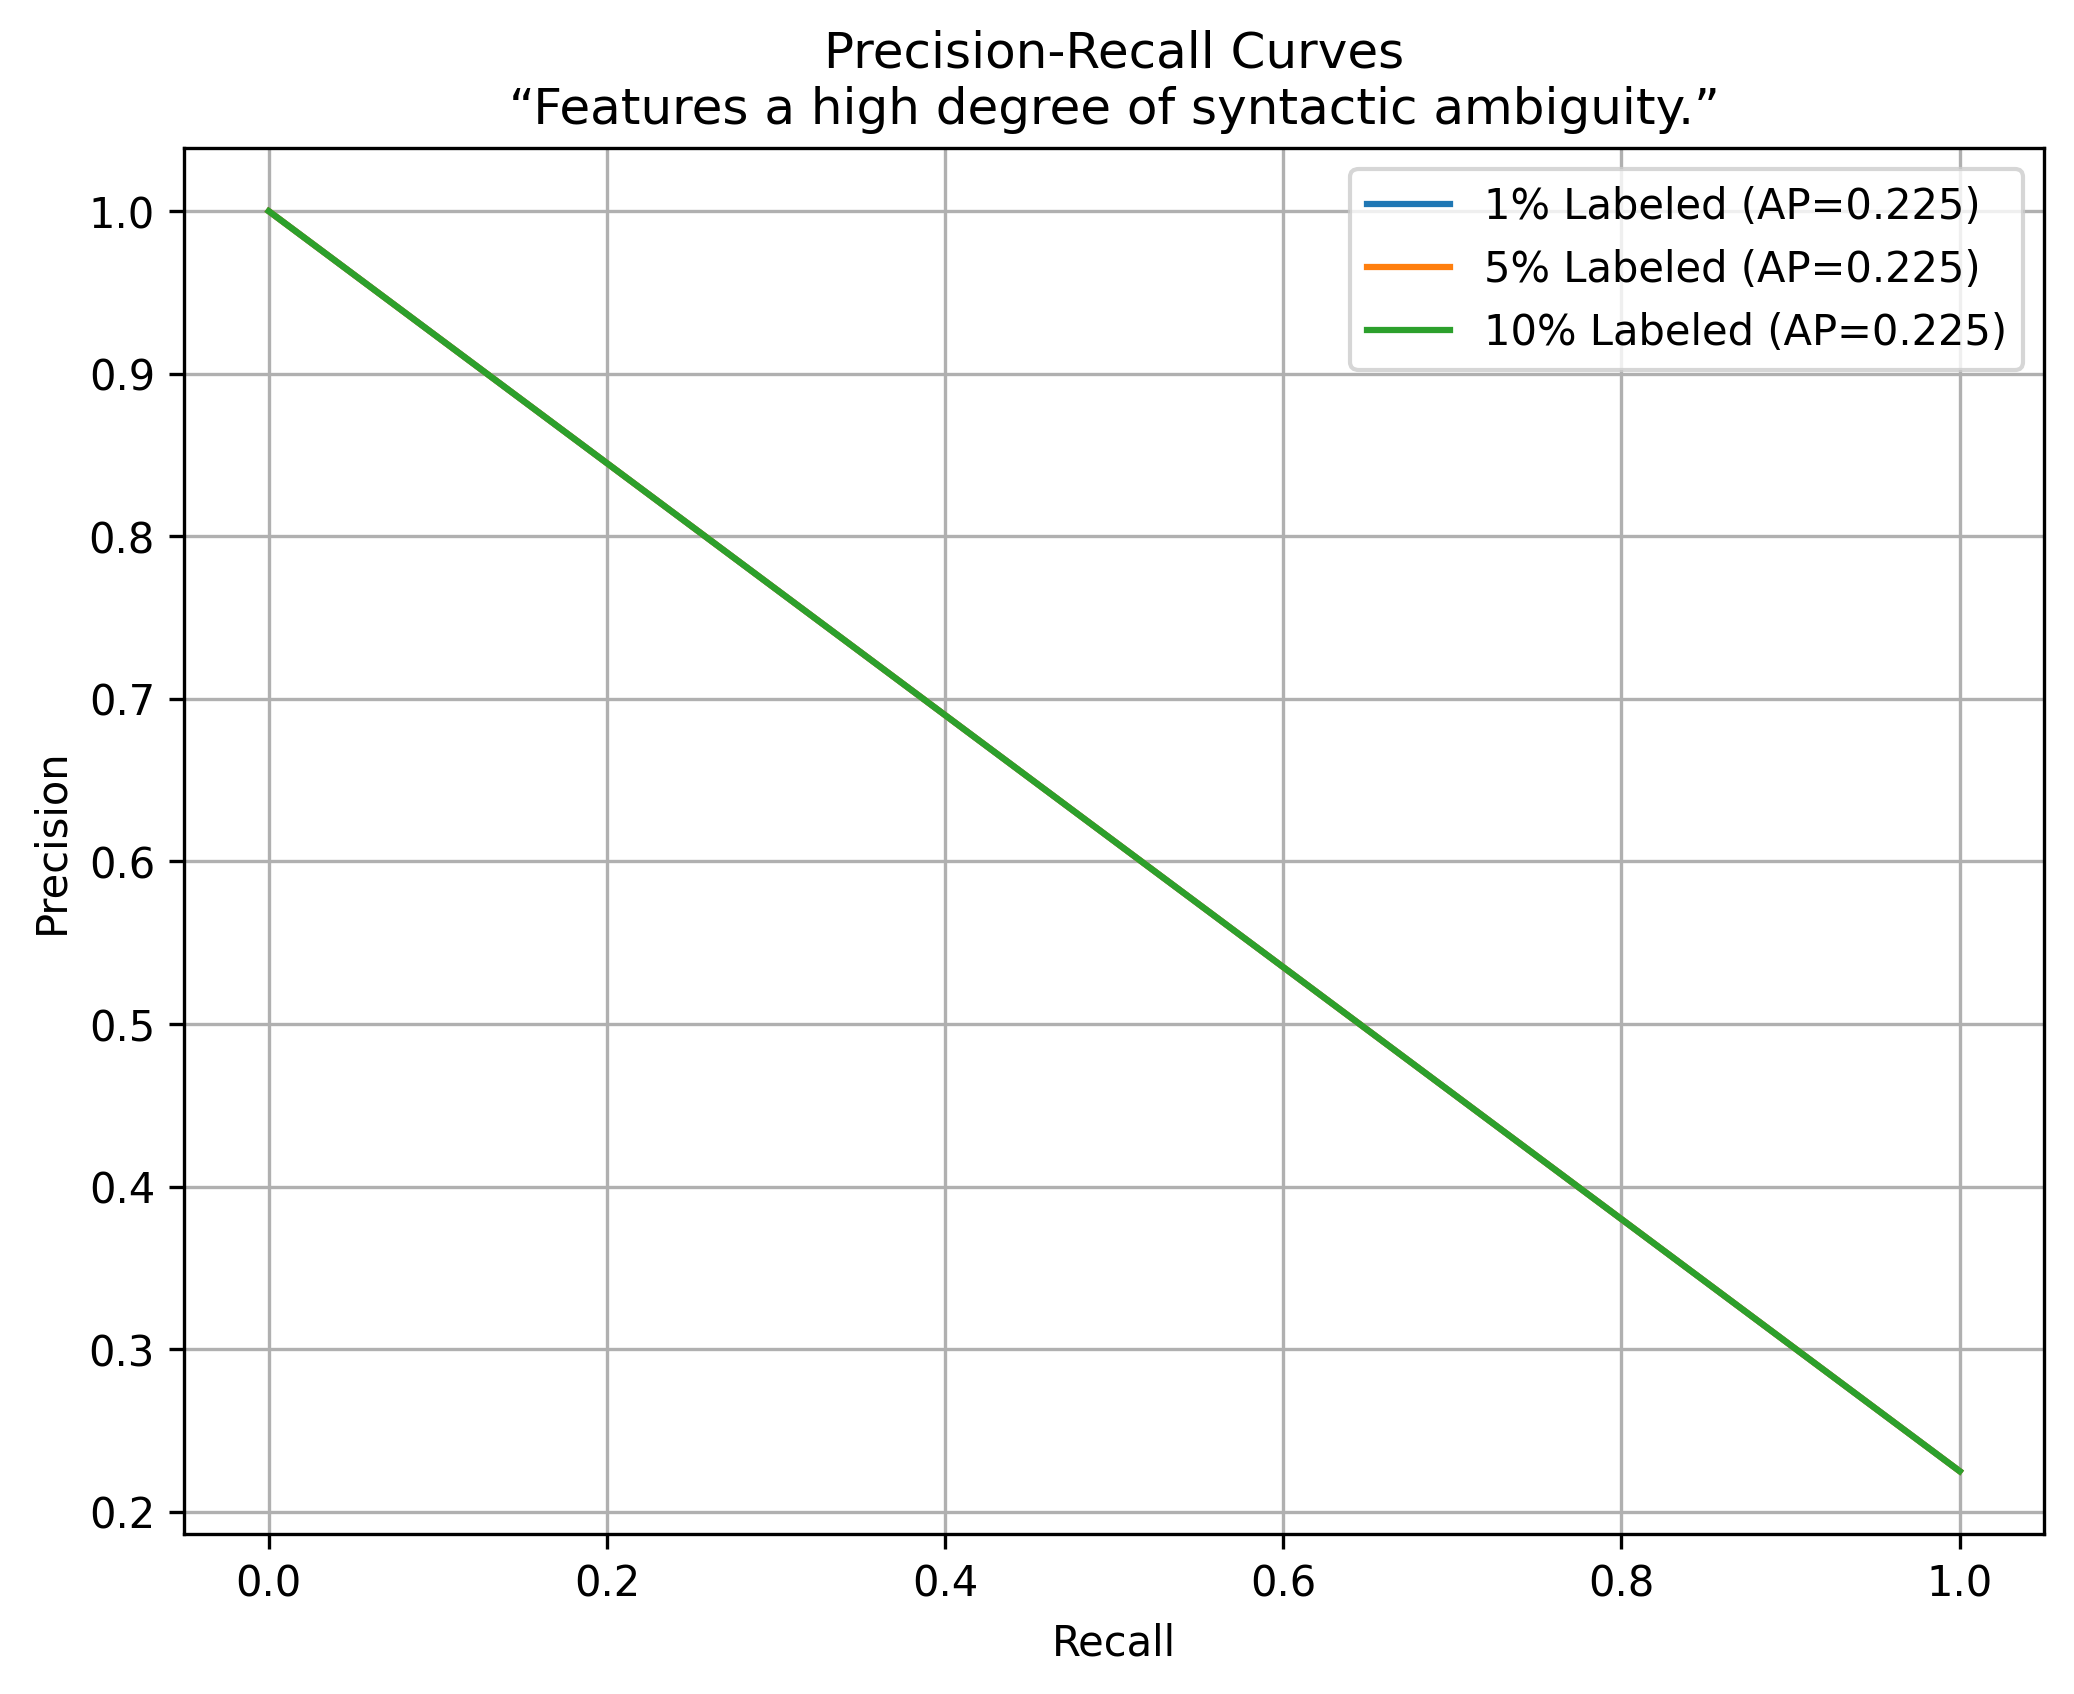
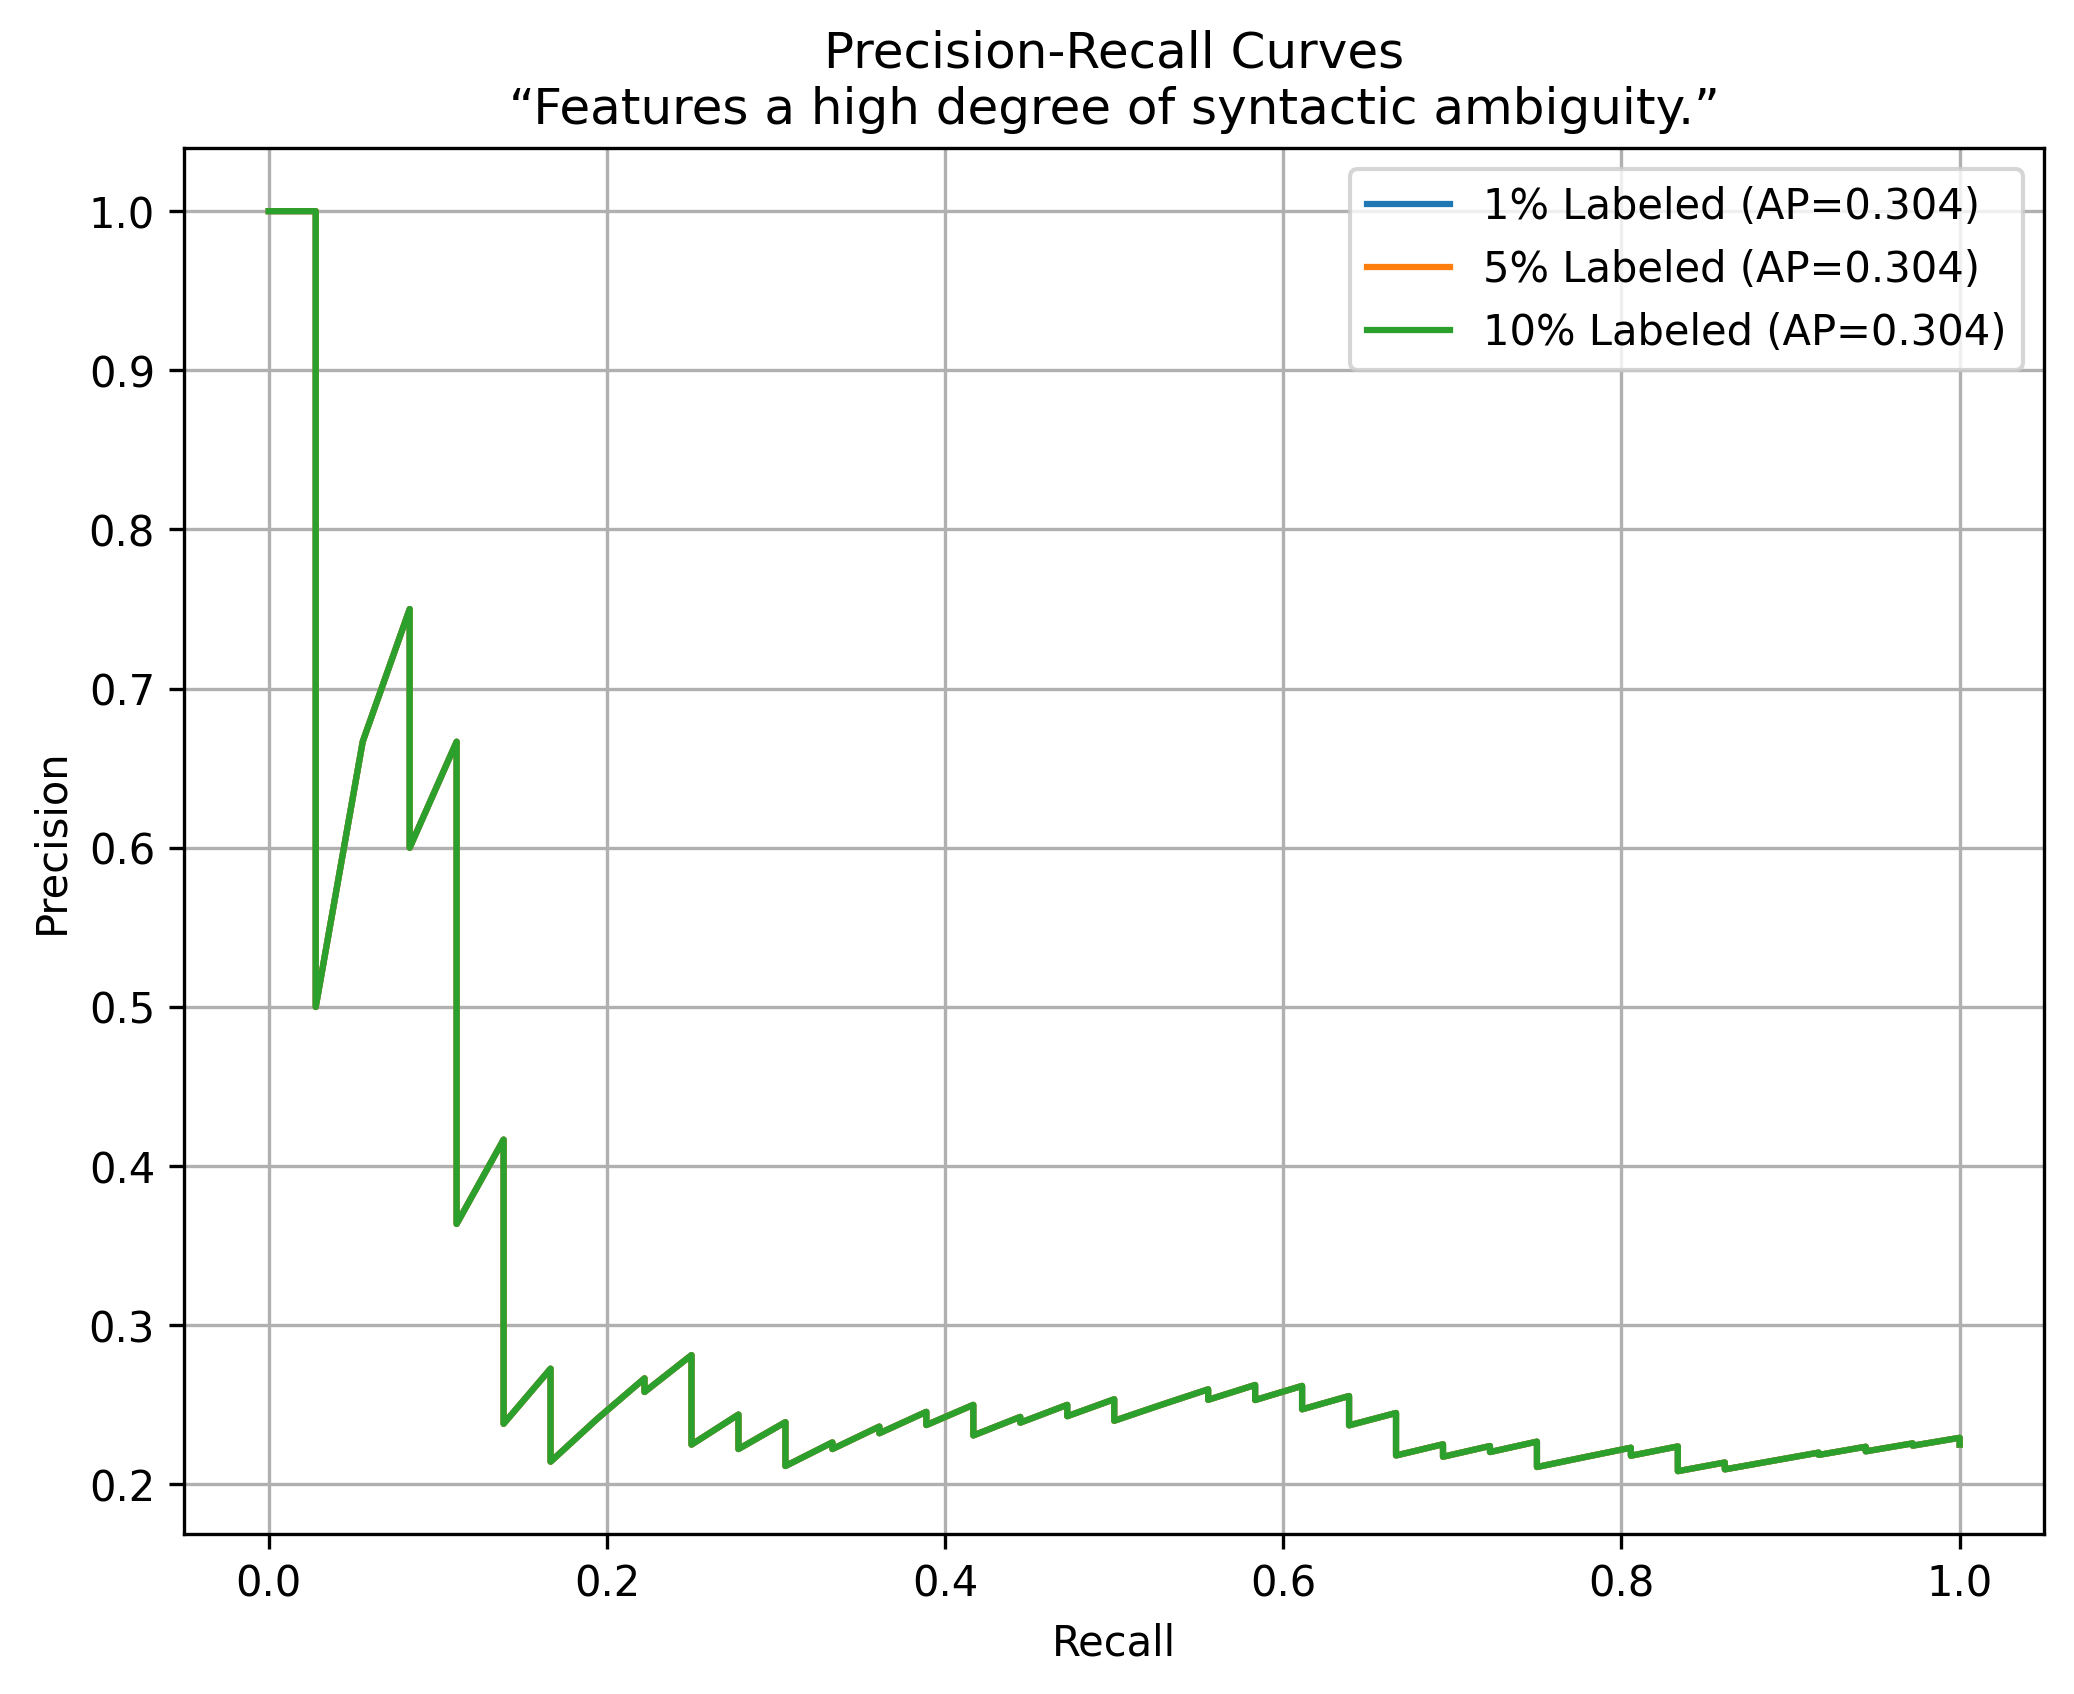
take three of label propagation

diff --git a/label_progation.py b/label_progation.py
@@ -138,19 +138,19 @@ if __name__ == '__main__':
 #	run it
 #	plot the results
         model.fit(X, Y1)
-        Y1 = model.transduction_
-        p1, r1, _ = precision_recall_curve(Y0, Y1)
-        avg1 = average_precision_score(Y0, Y1)
+        Y1_score = model.label_distributions_[:, 1]
+        p1, r1, _ = precision_recall_curve(Y0, Y1_score)
+        avg1 = average_precision_score(Y0, Y1_score)
 
         model.fit(X, Y5)
-        Y5 = model.transduction_
-        p5, r5, _ = precision_recall_curve(Y0, Y5)
-        avg5 = average_precision_score(Y0, Y5)
+        Y5_score = model.label_distributions_[:, 1]
+        p5, r5, _ = precision_recall_curve(Y0, Y5_score)
+        avg5 = average_precision_score(Y0, Y5_score)
 
         model.fit(X, Y10)
-        Y10 = model.transduction_
-        p10, r10, _ = precision_recall_curve(Y0, Y10)
-        avg10 = average_precision_score(Y0, Y10)
+        Y10_score = model.label_distributions_[:, 1]
+        p10, r10, _ = precision_recall_curve(Y0, Y10_score)
+        avg10 = average_precision_score(Y0, Y10_score)
 
         plt.figure(figsize=(8, 6))
         plt.plot(r1, p1, label=f"1% Labeled (AP={avg1:.3f})")
